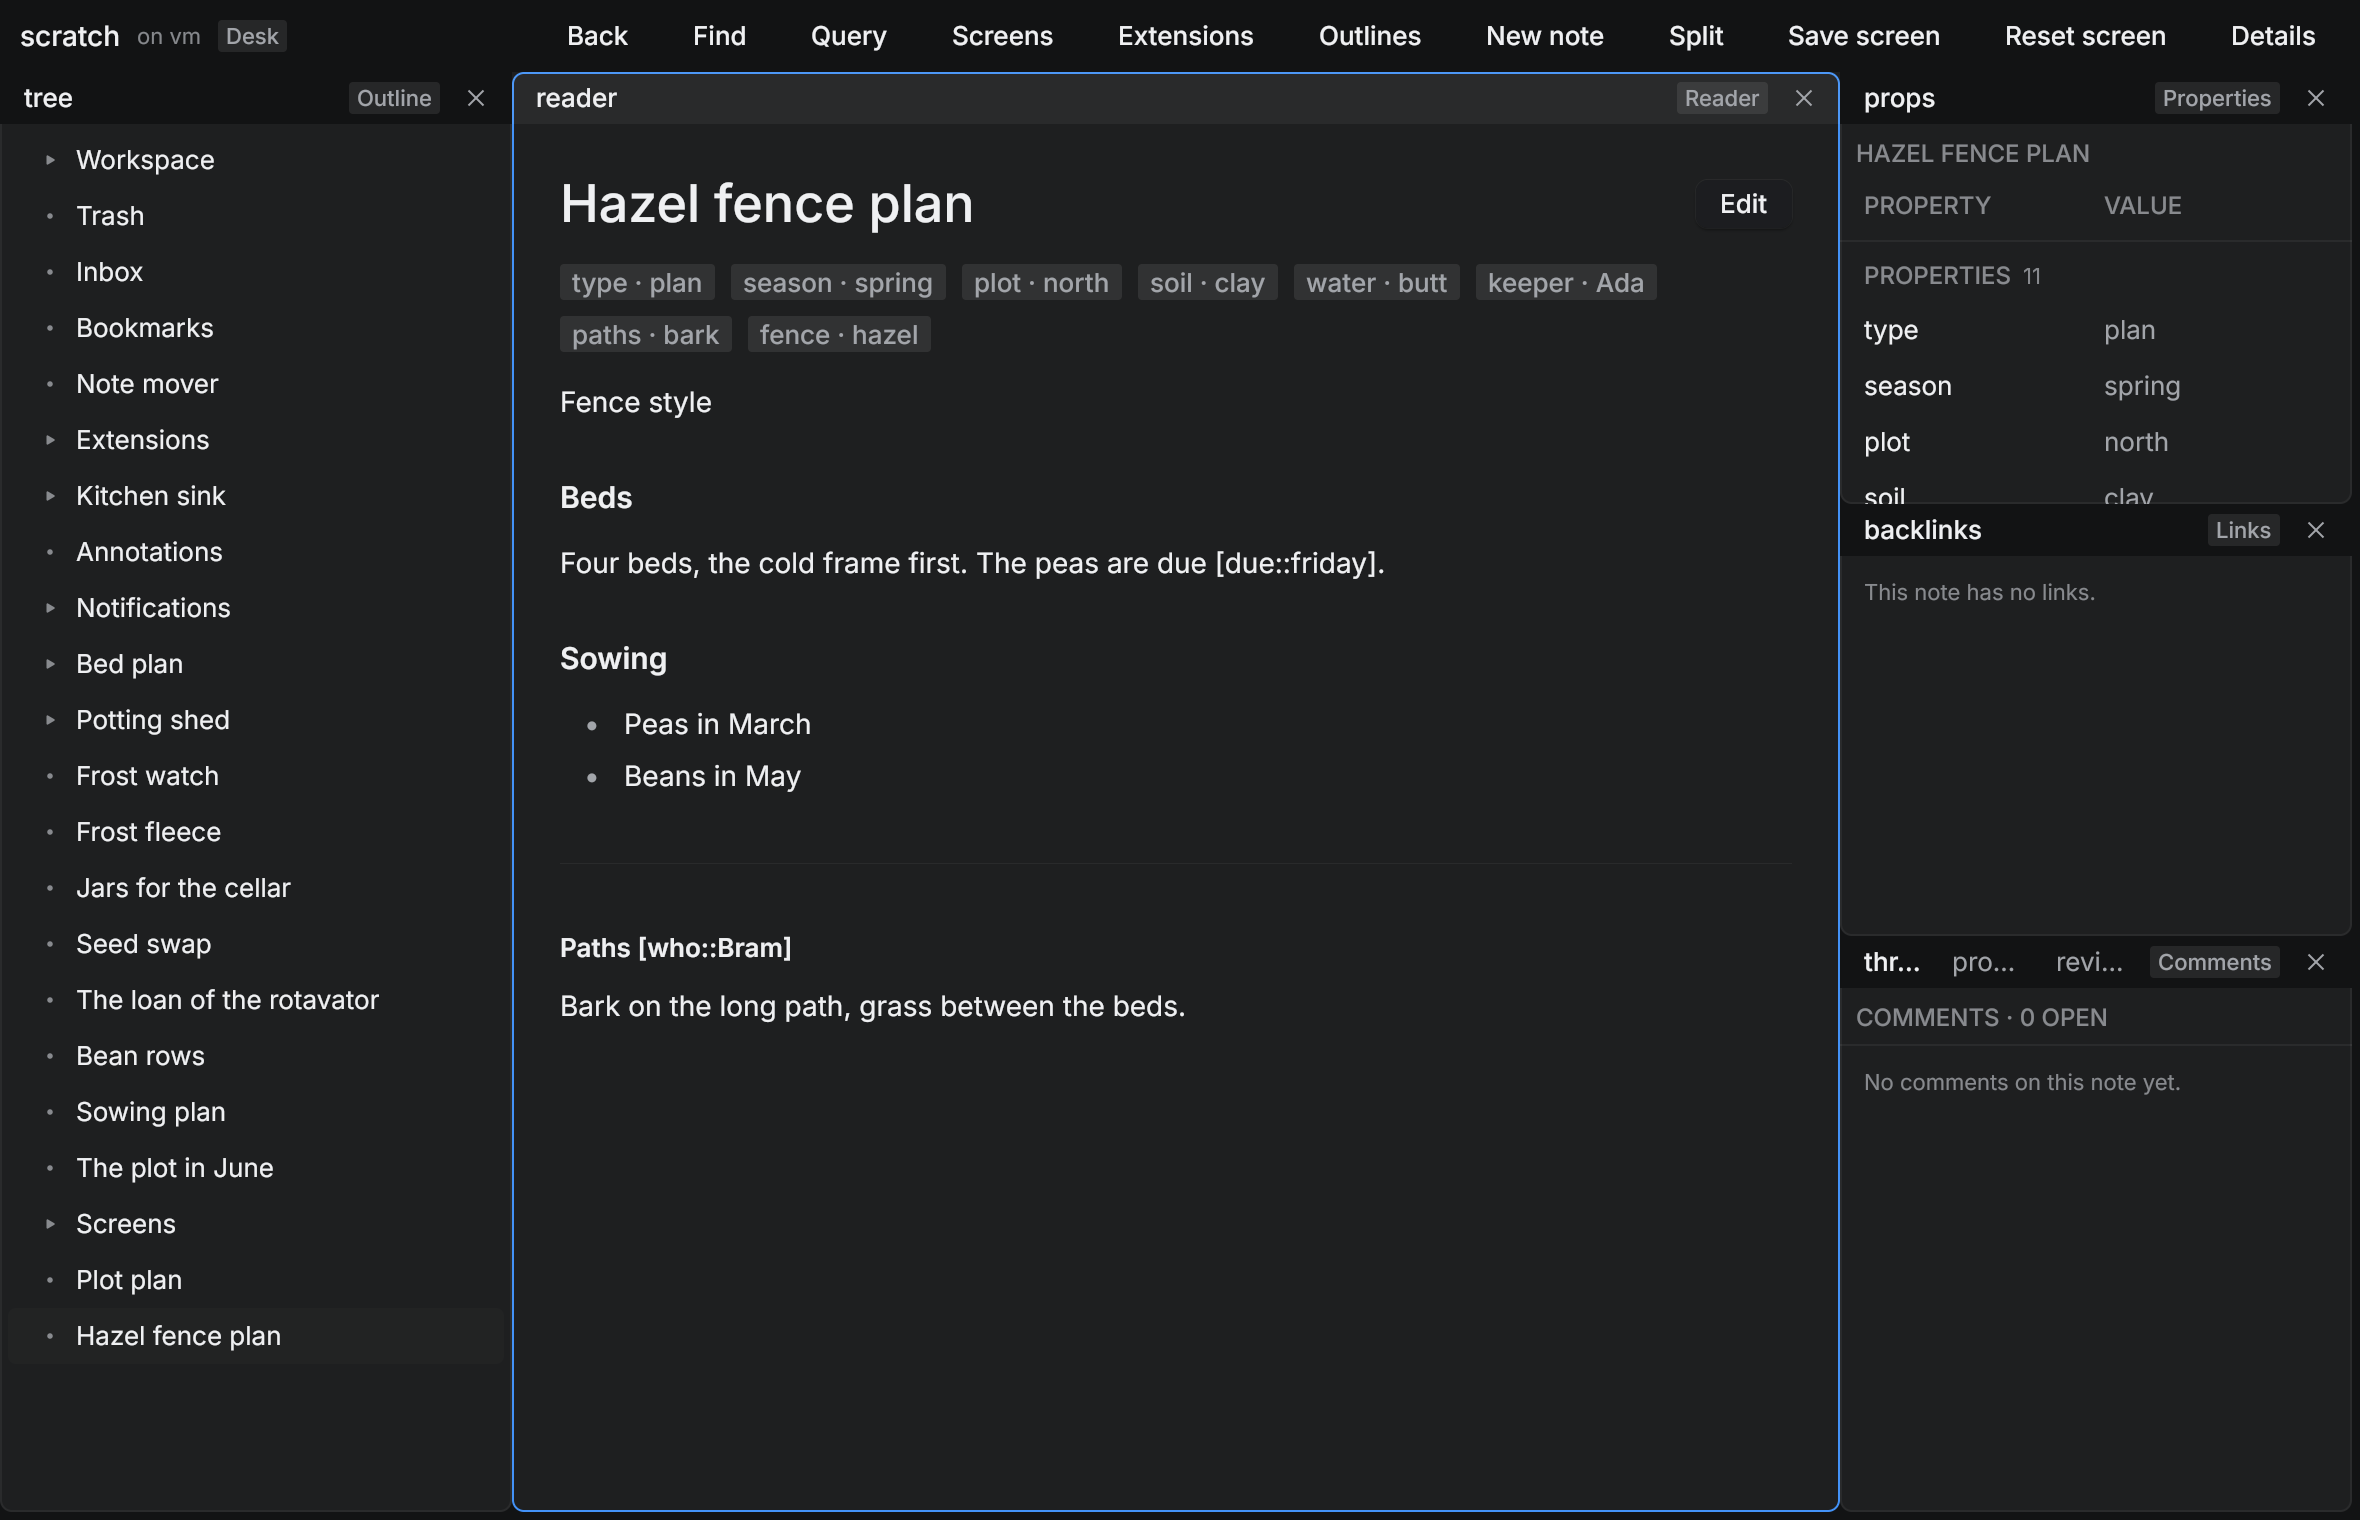
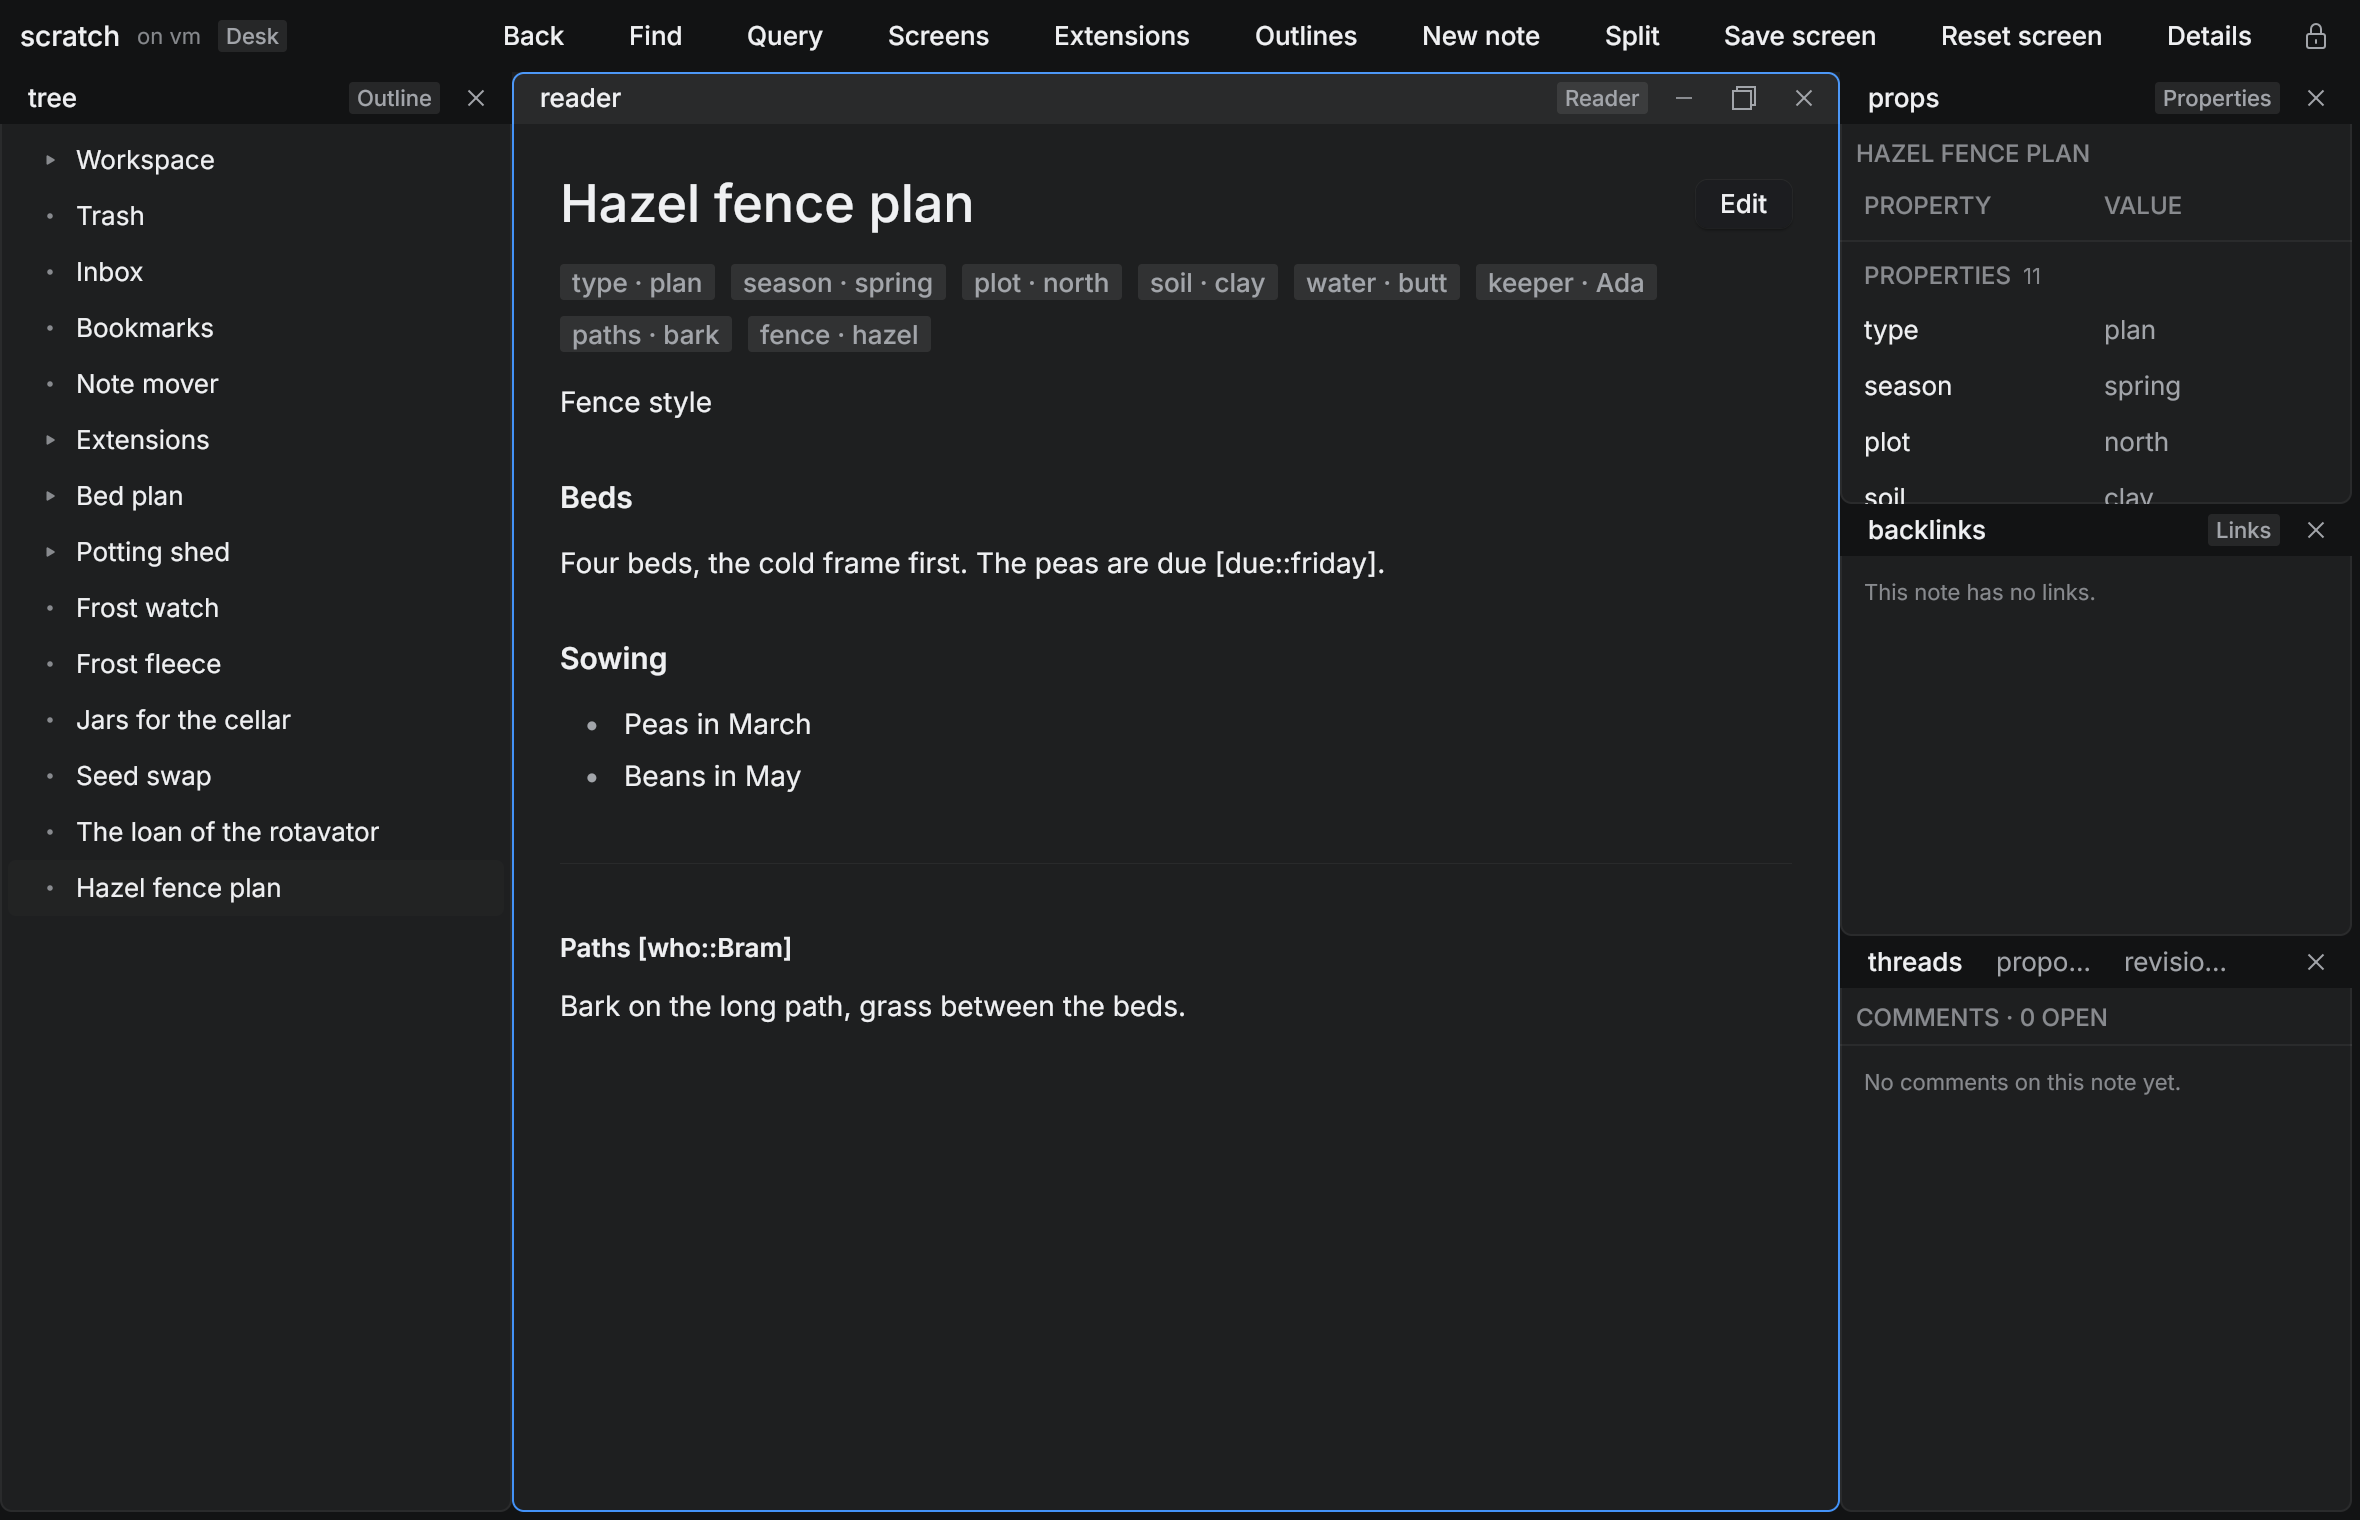
native H3: the headings picture shot again on the merged window, and a test's comment says what is served
The picture was taken before the arranging wave's tile buttons and the toolbar's
lock were merged in. The comment said the page serves the style a heading names;
it does not yet.

Claude-Session: https://claude.ai/code/session_01YahWSsU53UQFjh3cbq4VFn

diff --git a/packages/outliner/test/notes-page.test.ts b/packages/outliner/test/notes-page.test.ts
@@ -287,7 +287,7 @@ test("pictures: a media line where it stands, an svg fence as its own text, and 
 
 // A property that styles the line it is on is no content (outline-core's heading-styles.ts, the one rule every reader
 // has): a heading's own style, a line that declares one, a rule's, a `style.*`. A page that draws no style still
-// leaves them out, and says the style each heading or rule names, so a client that can draw it does.
+// leaves them out. (The style a heading or a rule names is not served yet: a client draws a plain heading.)
 test("a heading is served without the properties that style it; what says something stays", async () => {
   const { create, page } = await setup();
   const note = await create([
